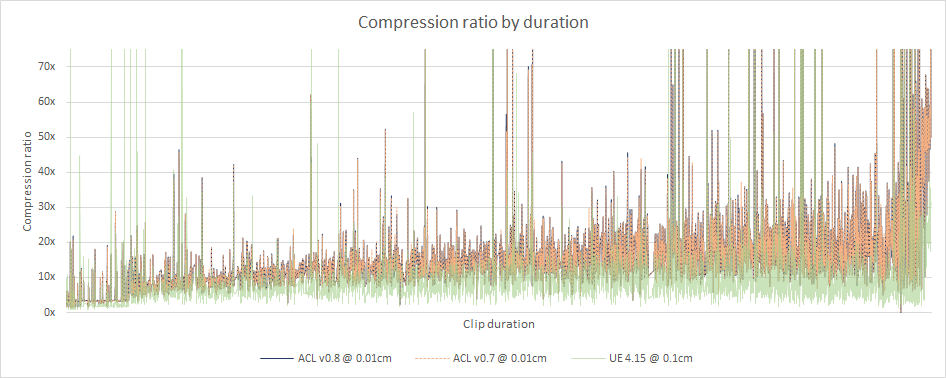
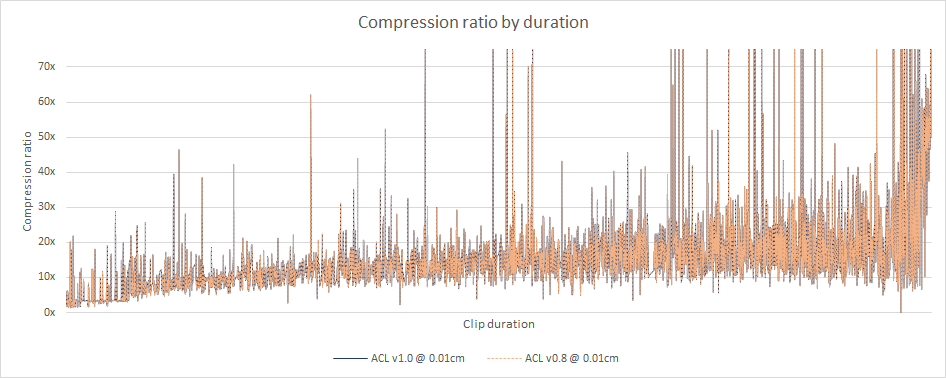
Updating Paragon stats. UE4 metrics were removed because they will now be tracked by the plugin.

Changed region(s): [[0.0613, 0.1164, 1.0, 0.8148], [0.3066, 0.9312, 0.7357, 0.9603]]

diff --git a/docs/paragon_performance.md b/docs/paragon_performance.md
@@ -1,7 +1,8 @@
 # Paragon database performance
 
 To compile these statistics, a large number of animations from [Paragon](https://www.epicgames.com/paragon) are used.
-In October 2017 the animations were manually extracted and converted to the [ACL file format](the_acl_file_format.md) losslessly. The data is sadly **NOT** available upon request.
+
+In *October 2017* the animations were manually extracted and converted to the [ACL file format](the_acl_file_format.md) losslessly. The data is sadly **NOT** available upon request.
 Epic has permitted [Nicholas Frechette](https://github.com/nfrechette) to use them for research purposes only under a non-disclosure agreement.
 
 **Note: Epic has since released Paragon assets publicly in early 2018, once I get around to it, it will be extracted and made available along with updated stats.**
@@ -20,45 +21,28 @@ The data set contains among other things:
 *  Lots of 3D scale
 *  Lots of other exotic clips
 
+ACL supports various compression methods but only the overall best variant will be tracked here (see `get_default_compression_settings()` for details).
+
 The error is measured **3cm** away from each bone to simulate the visual mesh skinning process as described [here](error_metrics.md).
 
-*  [ACL](paragon_performance.md#acl)
-*  [Unreal 4](paragon_performance.md#unreal-4)
-*  [Results in images](paragon_performance.md#results-in-images)
+The performance of ACL in Unreal Engine 4 is tracked by the plugin [here](https://github.com/nfrechette/acl-ue4-plugin/blob/develop/Docs/paragon_performance.md).
 
-# ACL
-
-Statistics for ACL are being generated with the `acl_compressor` tool found [here](../tools/acl_compressor). It supports various compression methods but only the overall best variant will be tracked here: variable bit rate with range reduction enabled. Every clip uses an error threshold of **0.01cm (0.1mm)**.
+# Summary
 
 *  Compressed size: **206.09 MB**
 *  Compression ratio: **20.75 : 1**
 *  Max error: **3.8615** centimeters
-*  Compression time: **07h 30m 46.44s** (single threaded)
-*  Compression time: **02h 03m 17.12s** (multi threaded on 4 cores)
+*  Compression time: **07h 48m 52.03s** (single threaded)
+*  Compression time: **02h 06m 34.97s** (multi threaded on 4 cores)
 
 Notes:
 
 *  You can compress any number of clips in parallel with multiple threads but each clip uses a single thread for now.
-*  The error is unusually high for **3** exotic clips
+*  The error is unusually high (above **1cm**) for **6** exotic clips.
 
-**Results from release [0.8.0](https://github.com/nfrechette/acl/releases/tag/v0.8.0)**
+**Results from release [1.0.0](https://github.com/nfrechette/acl/releases/tag/v1.0.0)**
 
 See [here](paragon_performance_history.md) for a history of performance progress across the various releases.
-
-# Unreal 4
-
-In order to measure statistics in *Unreal 4*, ACL was integrated along with a small [commandlet](../tools/ue4_stats_dump) to run the necessary compression and decompression logic. Everything uses the default values from the automatic compression settings which performs an exhaustive search of the best compression variant. As described [here](http://nfrechette.github.io/2017/01/11/anim_compression_unreal4/), the automatic compression tries many algorithms and settles on the best memory footprint that is also under the desired error threshold. The default error threshold is **1.0cm** but here we used **0.1cm** which is more realistic for production use.
-
-*  Compressed size: **493.97 MB**
-*  Compression ratio: **8.66 : 1**
-*  Max error: **1.0404** centimeters
-*  Compression time: **20h 16m 27.87s** (single threaded)
-
-Sadly the *Unreal 4* compression logic does not *yet* support multi-threading and must be run from the main thread.
-
-*Note: Down-sampling variants were causing issues and were disabled in the interest of keeping things fair. This speeds up the compression time considerably but does not affect the compressed size much*.
-
-**Results from Unreal 4.15.0**
 
 # Results in images
 

diff --git a/docs/paragon_performance_history.md b/docs/paragon_performance_history.md
@@ -1,16 +1,28 @@
 # Paragon database performance history
 
 To compile these statistics, a large number of animations from [Paragon](https://www.epicgames.com/paragon) are used.
-In October 2017 the animations were extracted manually and converted to the [ACL file format](the_acl_file_format.md) losslessly. The data is sadly **NOT** available upon request.
+
+In *October 2017* the animations were extracted manually and converted to the [ACL file format](the_acl_file_format.md) losslessly. The data is sadly **NOT** available upon request.
 Epic has permitted [Nicholas Frechette](https://github.com/nfrechette) to use them for research purposes only under a non-disclosure agreement.
 
 *  Number of clips: **6558**
 *  Total duration: **07h 00m 45.27s**
 *  Raw size: **4276.11 MB** (10x float32 * num bones * num samples)
 
+ACL supports various compression methods but only the overall best variant will be tracked here (see `get_default_compression_settings()` for details).
+
 The error is measured **3cm** away from each bone to simulate the visual mesh skinning process as described [here](error_metrics.md).
 
-Statistics for ACL are being generated with the `acl_compressor` tool found [here](../tools/acl_compressor). It supports various compression methods but only the overall best variant will be tracked here. Every clip uses an error threshold of **0.01cm (0.1mm)**.
+## Results from release [1.0.0](https://github.com/nfrechette/acl/releases/tag/v1.0.0):
+
+*  Compressed size: **206.09 MB**
+*  Compression ratio: **20.75 : 1**
+*  Max error: **3.8615** centimeters
+*  Compression time: **07h 48m 52.03s** (single threaded)
+*  Compression time: **02h 06m 34.97s** (multi threaded on 4 cores)
+*  Best variant: Segmented uniform sampling with variable bit rate and range reduction
+
+*Note: The error is unusually high (above **1cm**) for **6** exotic clips.
 
 ## Results from release [0.8.0](https://github.com/nfrechette/acl/releases/tag/v0.8.0):
 
@@ -21,7 +33,7 @@ Statistics for ACL are being generated with the `acl_compressor` tool found [her
 *  Compression time: **02h 03m 17.12s** (multi threaded on 4 cores)
 *  Best variant: Segmented uniform sampling with variable bit rate and range reduction
 
-*Note: The error is unusually high for **3** exotic clips.
+*Note: The error is unusually high (above **1cm**) for **6** exotic clips.
 
 ## Results from release [0.7.0](https://github.com/nfrechette/acl/releases/tag/v0.7.0):
 
